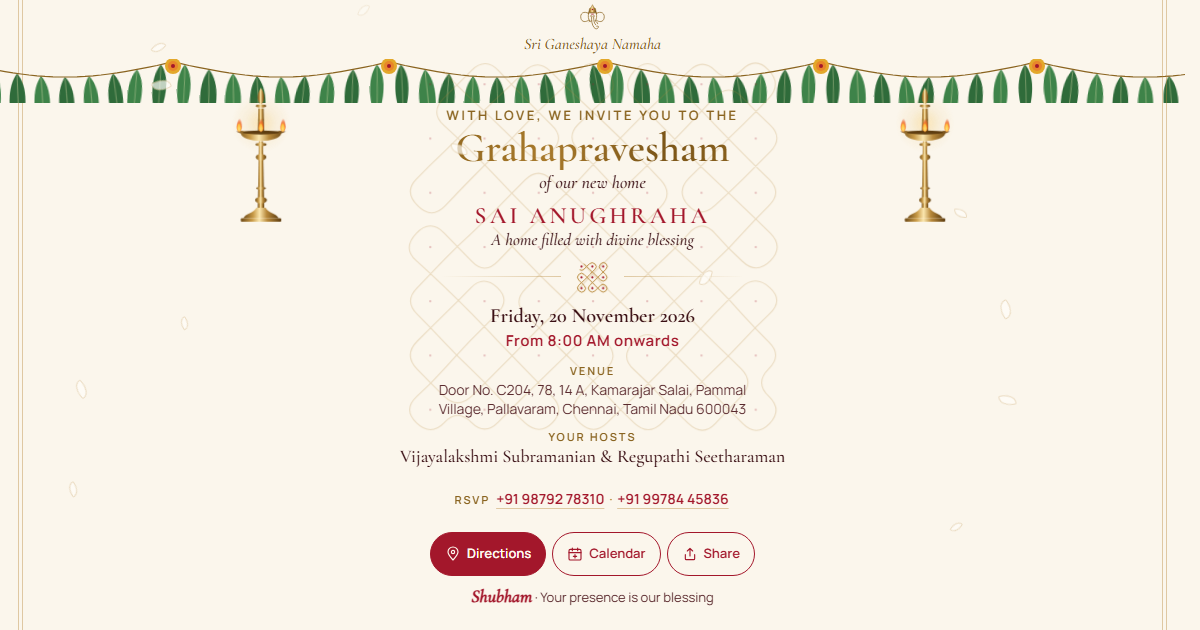
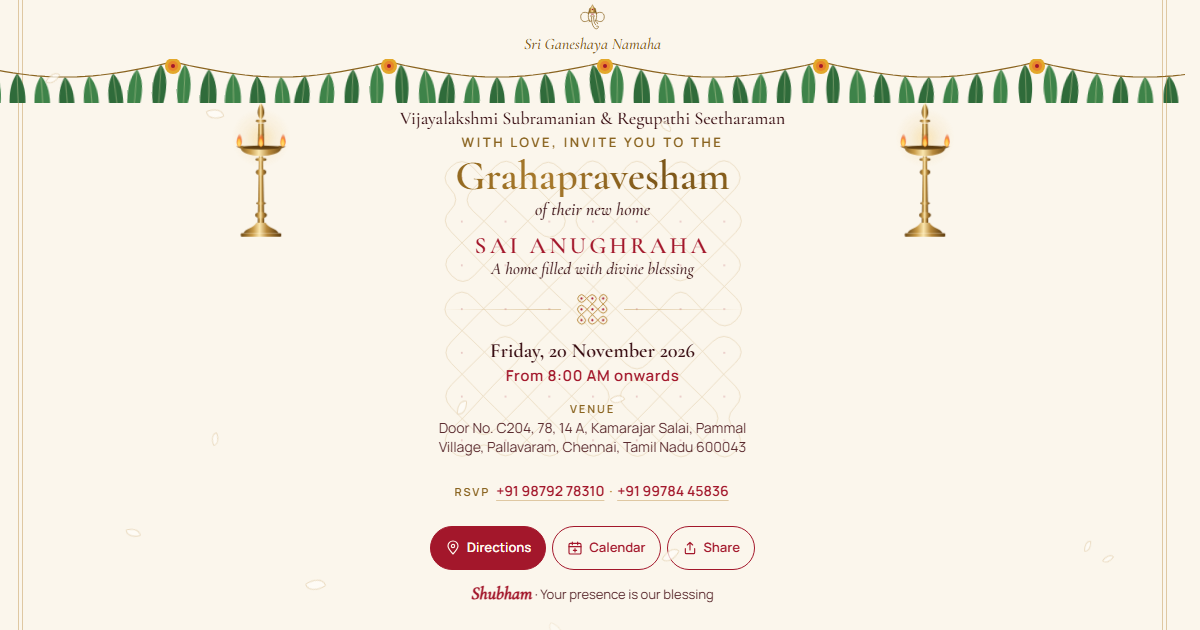
Open the invitation with the hosts' names
Replace the "Your hosts" label lower down with the traditional phrasing:
the hosts' names, then "with love, invite you to the Grahapravesham of
their new home". Same change on the printed card and preview image.

diff --git a/index.html b/index.html
@@ -318,7 +318,7 @@ html.rm .sweep { display: none; }
 .time { margin-top: 2px; color: var(--kumkum); font-size: .9375rem; font-weight: 600; letter-spacing: .04em; }
 .addr { color: var(--body); font-size: .875rem; line-height: 1.36; white-space: pre-line; text-wrap: balance; }
 .lbl { display: block; line-height: 1.4; color: var(--gold-ink); font-size: .6875rem; font-weight: 600; letter-spacing: .18em; text-transform: uppercase; margin-bottom: 2px; }
-.hosts { color: var(--maroon); font: 500 clamp(1.125rem, min(5vw, 2.8svh), 1.375rem)/1.14 var(--serif); text-wrap: balance; }
+.hosts { margin-bottom: 4px; color: var(--maroon); font: 500 clamp(1.125rem, min(5vw, 2.8svh), 1.375rem)/1.14 var(--serif); text-wrap: balance; }
 .rsvp { font-size: .875rem; line-height: 1; }
 .rsvp .lbl { display: inline; margin: 0 4px 0 0; }
 .tel { display: inline-flex; align-items: center; min-height: 44px; padding: 0 2px; color: var(--kumkum); font-weight: 600; text-decoration: underline; text-decoration-color: var(--hair); text-underline-offset: 4px; }
@@ -691,11 +691,12 @@ html.grid .gridov { display: grid; }
     <div class="bg-kolam kolam" id="heroKolam" data-kolam="hero" aria-hidden="true"></div>
 
     <div class="block">
-      <p class="pre in" style="--d:1">With love, we invite you to the</p>
-      <h1 class="title in" style="--d:2">
+      <p class="hosts in" style="--d:1"><span data-bind="hosts" data-ph="⟦HOST NAMES⟧" class="ph">⟦HOST NAMES⟧</span></p>
+      <p class="pre in" style="--d:2">with love, invite you to the</p>
+      <h1 class="title in" style="--d:3">
         <span class="foil">Grahapravesham<span class="sweep" aria-hidden="true"><span class="sweep-in">Grahapravesham</span></span></span>
       </h1>
-      <p class="sub in" style="--d:3">of our new home</p>
+      <p class="sub in" style="--d:3">of their new home</p>
       <svg class="lamp l" role="presentation"><use href="#lamp"/></svg>
       <svg class="lamp r" role="presentation"><use href="#lamp"/></svg>
     </div>
@@ -715,11 +716,6 @@ html.grid .gridov { display: grid; }
     <div class="block in" style="--d:7">
       <span class="lbl">Venue</span>
       <p class="addr"><span data-bind="venueAddress" data-ph="⟦VENUE ADDRESS⟧" class="ph">⟦VENUE ADDRESS⟧</span></p>
-    </div>
-
-    <div class="block in" style="--d:8">
-      <span class="lbl">Your hosts</span>
-      <p class="hosts"><span data-bind="hosts" data-ph="⟦HOST NAMES⟧" class="ph">⟦HOST NAMES⟧</span></p>
     </div>
 
     <div class="block in" style="--d:9">
@@ -744,9 +740,10 @@ html.grid .gridov { display: grid; }
   <div class="p-inner">
     <div class="p-inv"><svg class="p-ganesha" viewBox="0 0 64 64" role="img" aria-label="Lord Ganesha"><use href="#ganesha"/></svg><div>Sri Ganeshaya Namaha</div></div>
     <div>
-      <div class="p-pre">With love, we invite you to the</div>
+      <div class="p-hosts"><span data-bind="hosts" data-ph="⟦HOST NAMES⟧" class="ph">⟦HOST NAMES⟧</span></div>
+      <div class="p-pre">with love, invite you to the</div>
       <div class="p-title">Grahapravesham</div>
-      <div class="p-sub">of our new home</div>
+      <div class="p-sub">of their new home</div>
     </div>
     <div>
       <div class="p-house"><span data-bind="houseName" data-ph="⟦HOUSE NAME⟧" class="ph">⟦HOUSE NAME⟧</span></div>
@@ -759,10 +756,6 @@ html.grid .gridov { display: grid; }
     <div>
       <div class="p-lbl">Venue</div>
       <div style="white-space:pre-line"><span data-bind="venueAddress" data-ph="⟦VENUE ADDRESS⟧" class="ph">⟦VENUE ADDRESS⟧</span></div>
-    </div>
-    <div>
-      <div class="p-lbl">Your hosts</div>
-      <div class="p-hosts"><span data-bind="hosts" data-ph="⟦HOST NAMES⟧" class="ph">⟦HOST NAMES⟧</span></div>
     </div>
     <div>
       <div class="p-lbl">RSVP</div>
